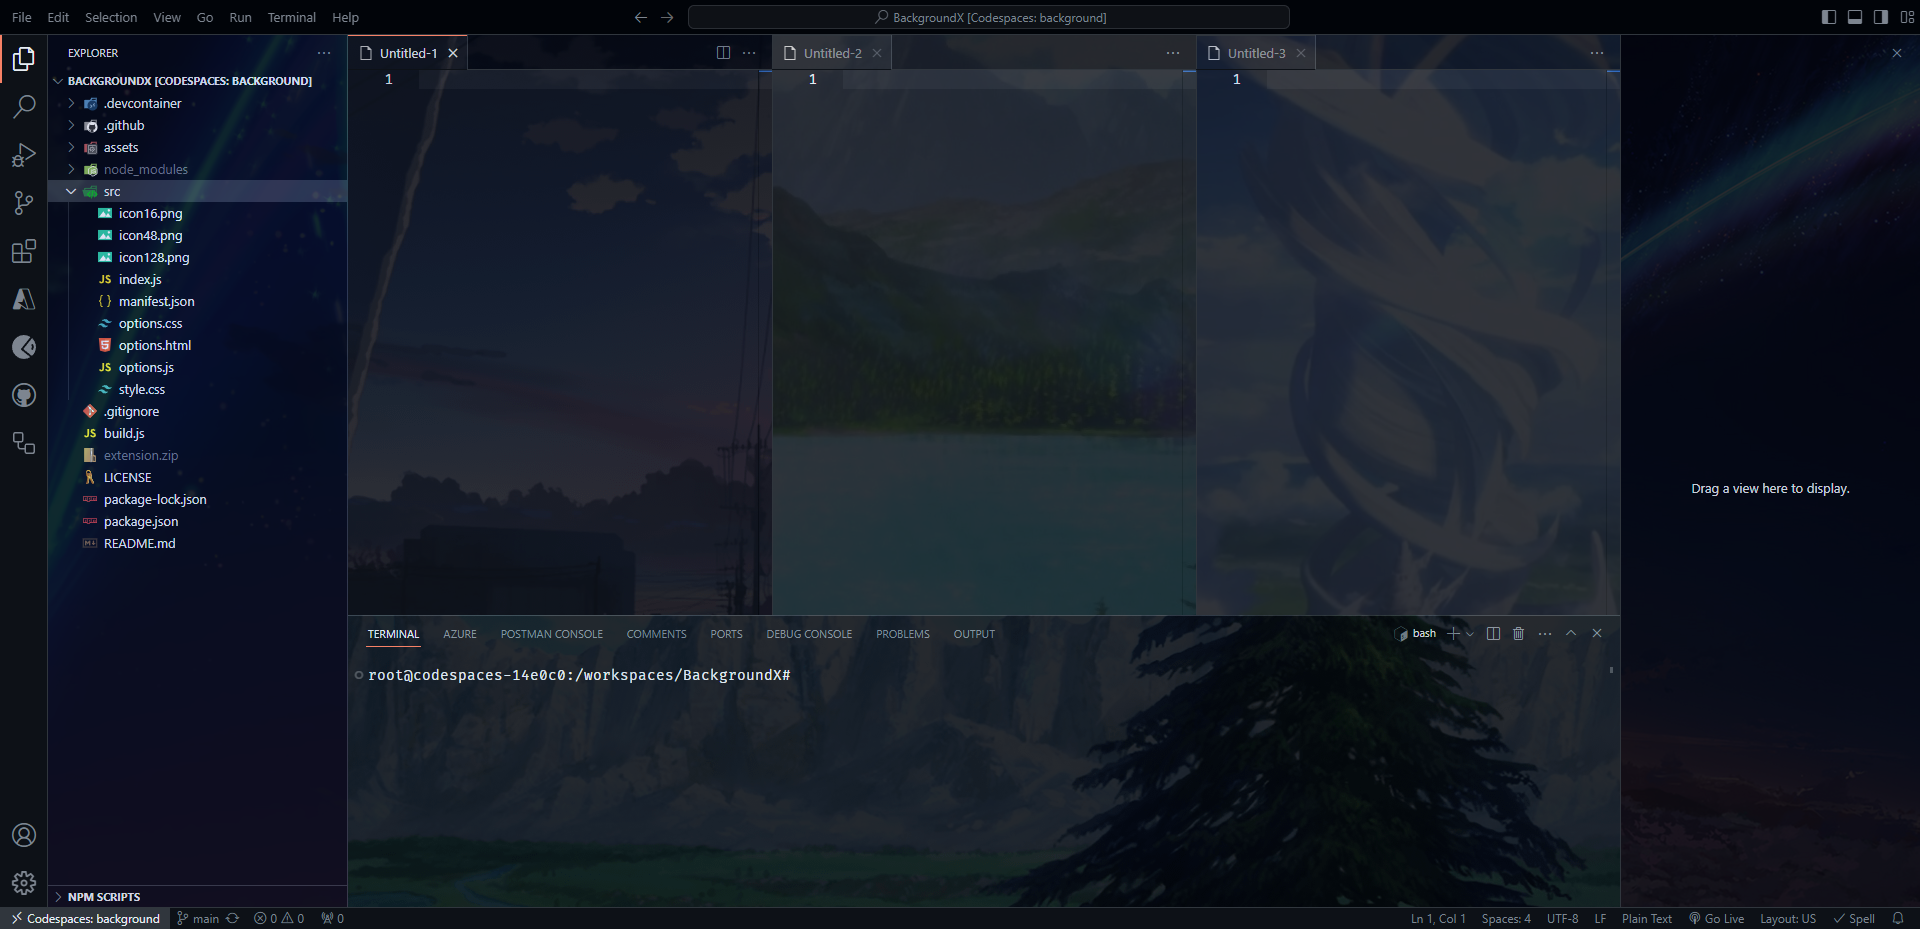
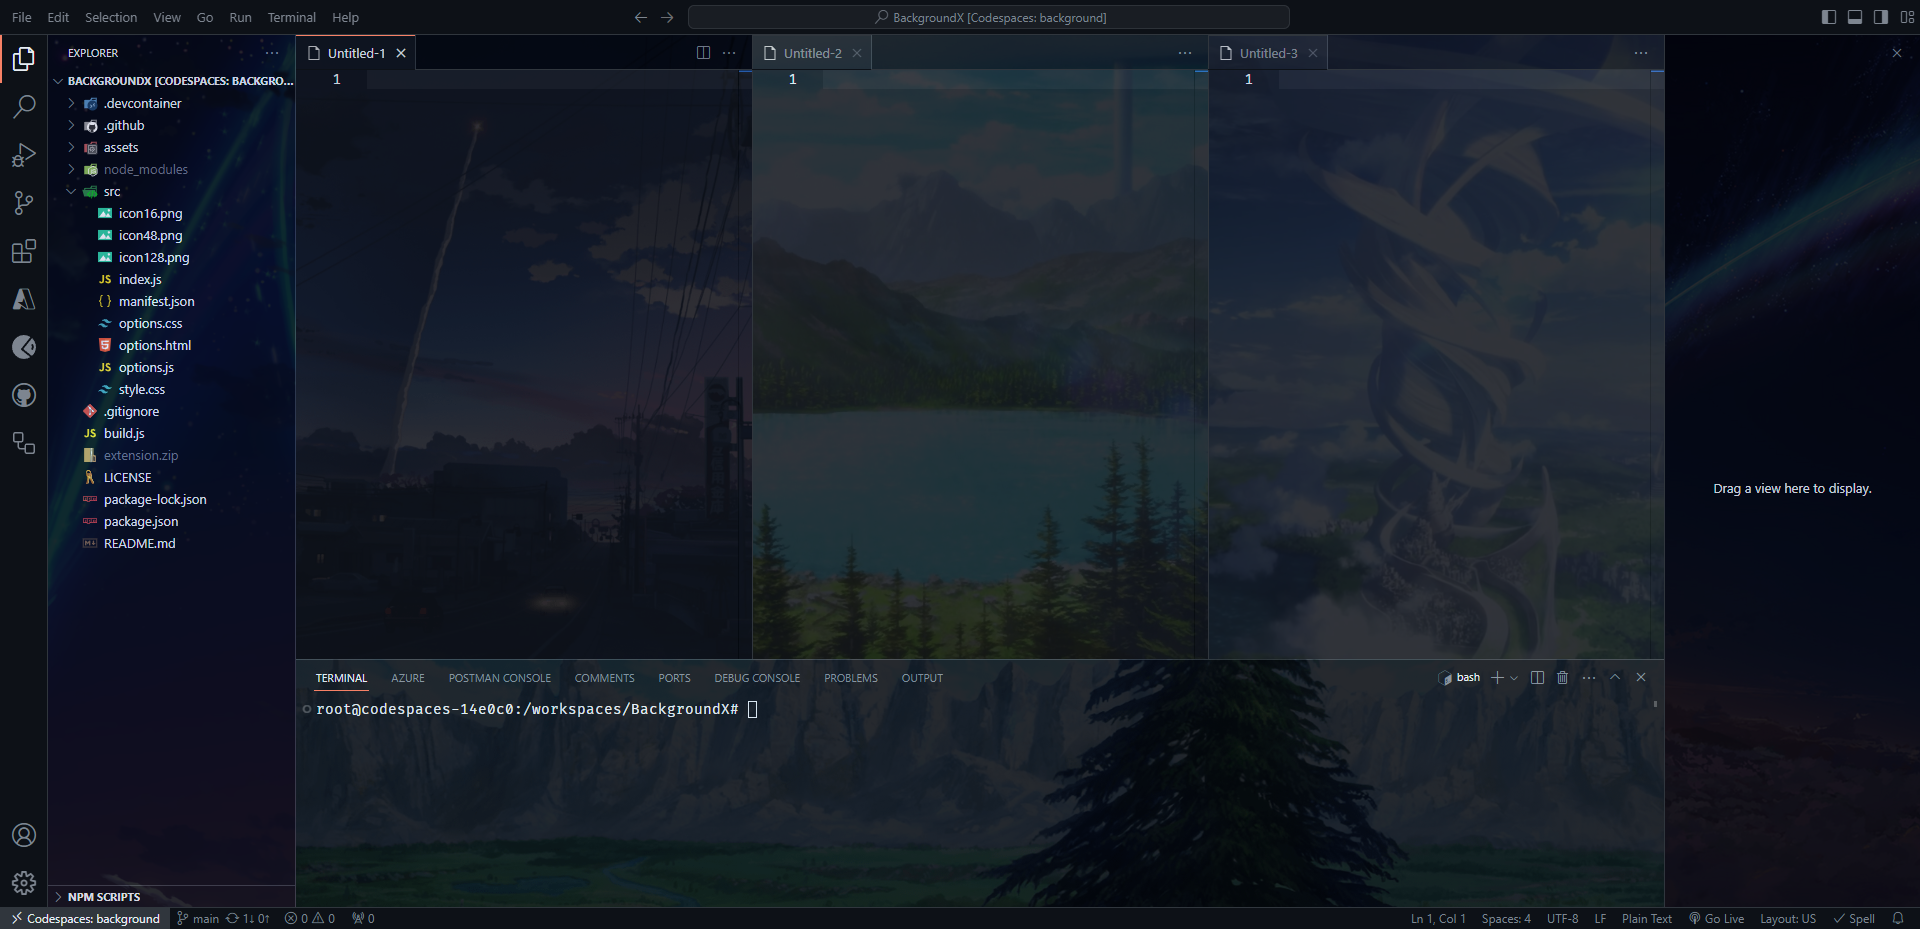
update previews, fix css and timer

diff --git a/src/index.js b/src/index.js
@@ -30,7 +30,7 @@
             e.appendChild(document.createTextNode(css));
         }
         return e;
-    }
+    };
 
     const round = (number, places) => Math.round((number + Number.EPSILON) * Math.pow(10, places)) / Math.pow(10, places);
 
@@ -50,10 +50,10 @@
     body.setAttribute(`${identifier}-wA`, wA);
     body.setAttribute(`${identifier}-si`, si);
 
-    const wT = options.windowTimer || 0;
-    const eT = options.editorTimer || 0;
-    const sT = options.sidebarTimer || 0;
-    const pT = options.panelTimer || 0;
+    const wT = options.windowTime || 0;
+    const eT = options.editorTime || 0;
+    const sT = options.sidebarTime || 0;
+    const pT = options.panelTime || 0;
 
     const wI = [...(options.windowBackgrounds || [])];
     const eI = [...(options.editorBackgrounds || [])];
@@ -143,7 +143,7 @@
             const j = Math.floor(Math.random() * i);
             [arr[i], arr[j]] = [arr[j], arr[i]];
         }
-    }
+    };
 
     const wIE = createCSS(`${identifier}-w`);
     const eIE = createCSS(`${identifier}-e`);
@@ -238,7 +238,7 @@
 
     const head = document.querySelector("head");
 
-    const user = createCSS(`${identifier}-user`, "TODO");
+    const user = createCSS(`${identifier}-user`, options.css);
 
     head.appendChild(user);
     head.appendChild(global);
